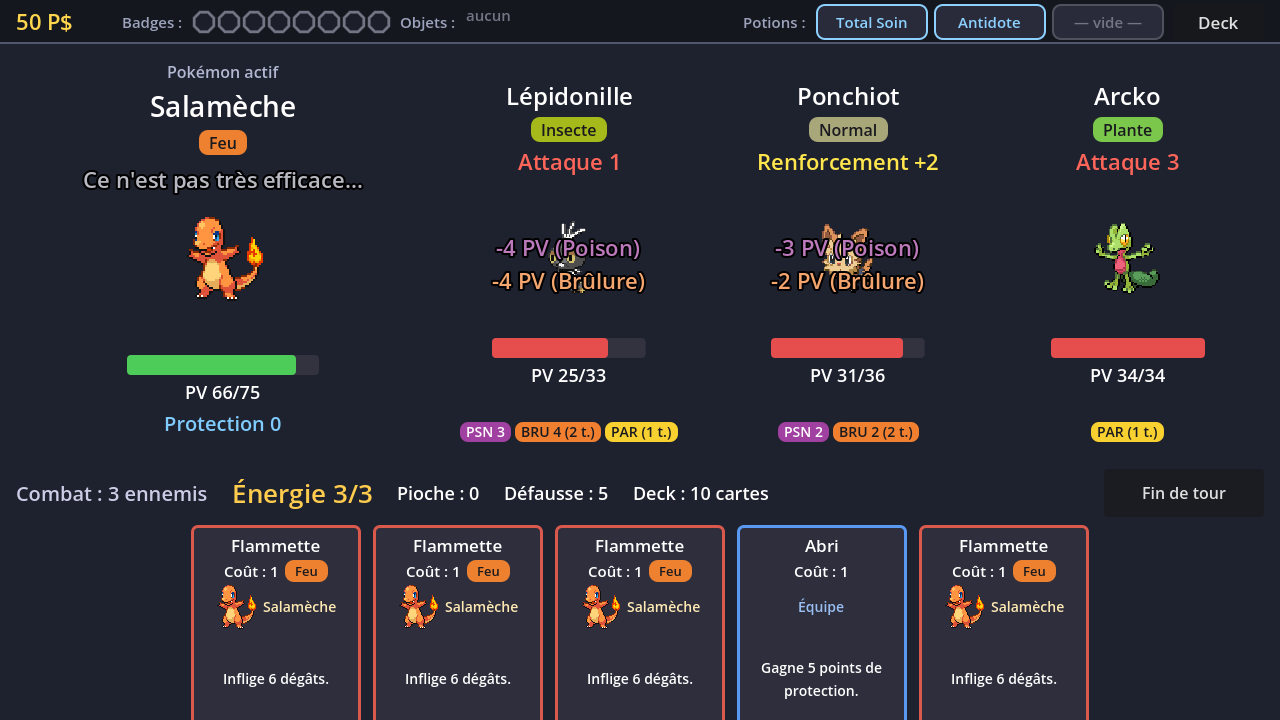
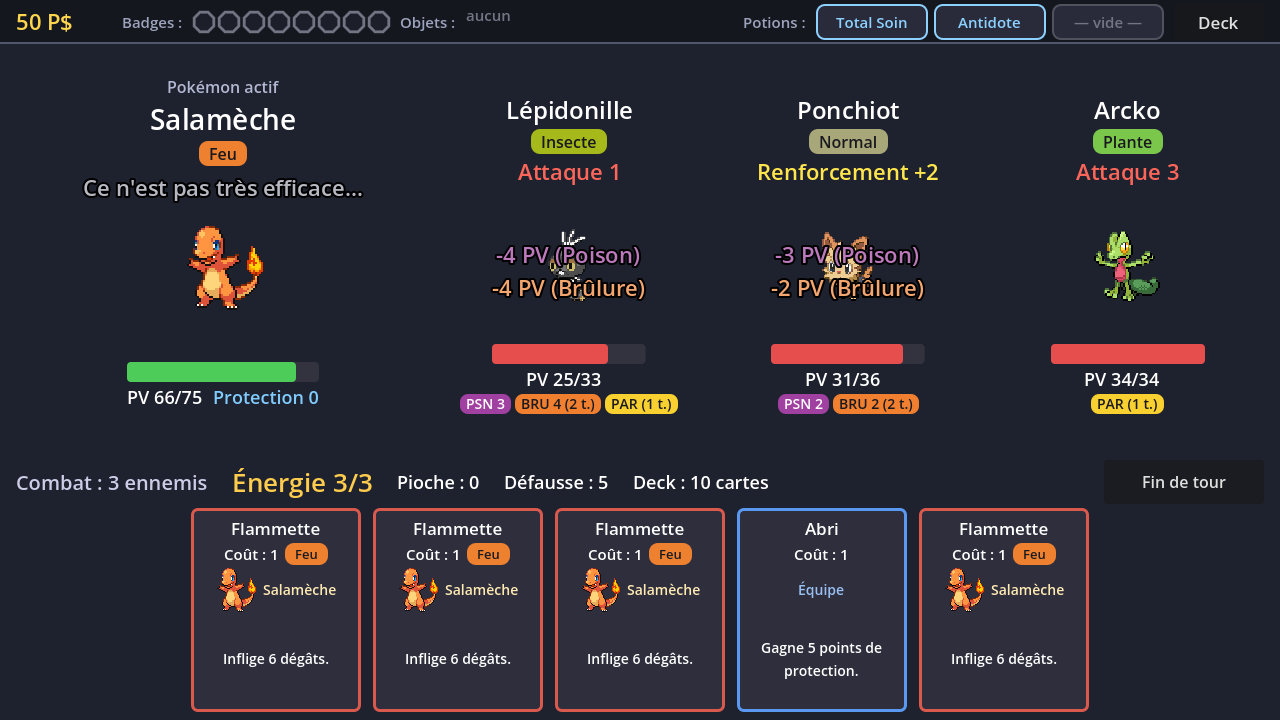
wip: story 016 fixes in progress
Story: pokemon-spire 016

Claude-Session: https://claude.ai/code/session_01PhvxWc1QeuWwyXRJo7GgvA

diff --git a/production/qa/evidence/story-016-statuts/README.md b/production/qa/evidence/story-016-statuts/README.md
@@ -1,6 +1,6 @@
 # Story 016 — Statuts : preuves visuelles (UI)
 
-Captured 2026-10-24, Godot 4.6.3-stable (linux, Xvfb 1280x720x24), run seed 2026, starter Salamèche.
+Captured 2026-10-24 (re-captured the same day after the player-reported fixes: fit-in-720p layout and the anti-lock status rules), Godot 4.6.3-stable (linux, Xvfb 1280x720x24), run seed 2026, starter Salamèche.
 
 ## How captured
 
@@ -12,20 +12,24 @@ xvfb-run -a -s "-screen 0 1280x720x24" /root/godot/Godot_v4.6.3-stable_linux.x86
 `_status_shots()` in `tools/qa/battle_walkthrough.gd` uses these QA hooks: `start_encounter`,
 `BattleScreen.qa_force_hand`, `BattleScreen.qa_apply_status(target_index, id, value)` (new; it goes through
 `Battle.apply_status`, so immunities and feedback are the real ones) and `qa_give_potion`. Each shot prints a `016 <tag>:` line
-to stdout with the chips, HP, energy, info-row hint and intents. Every PNG was opened and checked.
+to stdout with the chips, HP, energy, info-row hint and intents. Every `shot` line of a battle also prints
+`cards=N card_h=H hand_bottom=Y/720 fits=true|false` (global rects of the hand buttons). Every battle shot below reports
+`card_h=204 hand_bottom=712/720 fits=true`: the full card, bottom border included, is inside the frame. Every PNG was opened and checked.
 
 ## Shot → observed
 
 | Shot | Observed |
 |---|---|
 | `07-carte-statut` | 3-enemy fight (Lépidonille / Ponchiot / Arcko). The forced hand holds the status cards Toxik, Feu Follet, Cage-Éclair and Hypnose (skills), plus Dard-Venin (attack, "Poison 3."). Each card description names its status. |
-| `01-statuts-ennemis` | After Toxik + Feu Follet + Cage-Éclair on Lépidonille, plus QA statuses on the other two enemies. Chips under the HP: `PSN 4` `BRU 4 (3 t.)` `PAR (2 t.)` / `PSN 3` `BRU 2 (3 t.)` / `PAR (2 t.)`. The 3 chips fit the 3-enemy slot width. Floating feedback: one coloured line per message ("Poison +4", "Brûlure +4", "Paralysie !"). Nothing overlaps the HP bars or intents. |
+| `01-statuts-ennemis` | (Before the fix the Hypnose / Dard-Venin cards were cut at the bottom edge; now fully visible, bottom border at y≈710.) After Toxik + Feu Follet + Cage-Éclair on Lépidonille, plus QA statuses on the other two enemies. Chips under the HP: `PSN 4` `BRU 4 (3 t.)` `PAR (2 t.)` / `PSN 3` `BRU 2 (3 t.)` / `PAR (2 t.)`. The 3 chips fit the 3-enemy slot width. Floating feedback: one coloured line per message ("Poison +4", "Brûlure +4", "Paralysie !"). Nothing overlaps the HP bars or intents. |
 | `02-tick-poison` | After "Fin de tour": "-4 PV (Poison)" / "-4 PV (Brûlure)" and "-3 PV (Poison)" / "-2 PV (Brûlure)" float over the enemies. HP drops from 33→25 and 36→31. The chips update: `PSN 3`, `BRU 4 (2 t.)`, `PAR (1 t.)`. |
 | `03-immunite` | Héricendre (Feu): Toxik gives "Poison +4" and a `PSN 4` chip. Feu Follet gives "Immunisé !" and no burn chip. Its intent "Attaque 3 + Brûlure 2" fits. |
 | `04-statut-joueur` | Aspicot's "Attaque + Poison 2" hit the team. "Poison +2" floats on the player's side (under "Ce n'est pas très efficace…") and a `PSN 2` chip sits under "Protection" on the player's panel. |
-| `04b-joueur-endormi` | The team is asleep (QA sleep) and ends its turn: "-2 PV (Poison)" / "Dort…" / "Réveillé !" on the player. Info row: "Ton équipe dort : 0 énergie ce tour" (lilac), Énergie 0/3, cards greyed out. |
-| `06-soin-statut` | Total Soin drunk from the HUD: "Potion : Total Soin" floats and the player's `PSN` chip is gone. The belt has one slot fewer. |
+| `04b-joueur-endormi` | The team is asleep (QA sleep) and ends its turn: "-2 PV (Poison)" / "Dort…" / "Réveillé !" on the player. Info row: "Ton équipe dort : −2 énergie ce tour" (lilac), Énergie 1/3: the team still draws and can play with what is left. The sleep ended, so a `RÉPIT (2 t.)` chip (green) appears next to `PSN 1`. |
+| `06-soin-statut` | Total Soin drunk from the HUD: "Potion : Total Soin" floats and the player's `PSN` chip is gone; `RÉPIT (2 t.)` stays (the aftermath immunity is not a status). The belt has one slot fewer. |
+| `08-repit` | Same fight, QA freeze applied to the team during the immunity: refused, "Immunisé !" floats over Salamèche, `RÉPIT (2 t.)` chip under the HP row. |
 | `05-sommeil-gel` | Roucool sleeping and Nosferapti frozen: intents "Dort" / "Gelé" in the status colour, with `DOR` / `GEL` chips. Aspicot's long intent "Attaque 13 + Poison 2" fits its slot. The panel without a chip stays aligned with the others. |
+| `09-main-7-cartes-statuts` | Worst-case layout: 3 enemies with 3 chips each (`PSN 3` `BRU 2 (3 t.)` `PAR (2 t.)`), the team with `PSN 2` `PAR (2 t.)`, and a 7-card hand (narrowed cards). All 7 cards are fully visible (`hand_bottom=712/720`), nothing overlaps. |
 
 ## Not covered by a shot
 
@@ -36,3 +40,14 @@ to stdout with the chips, HP, energy, info-row hint and intents. Every PNG was o
 - The Antidote / Anti-Brûlure / Antigel potions (same `cure_status` path as Total Soin).
 - The worst-case intent with a burn ("Attaque 13 + Brûlure 4") was not reached in data. The font shrink (22 → 14 px
   minimum) is shown working only on "Attaque 13 + Poison 2", which already fits at 22 px.
+- "Paralysie : sans effet" (paralysis re-applied while active; covered by the scratch test t20).
+
+## Layout fix (fit in 1280x720)
+
+The battle screen sits under the 44 px HUD, so it has 676 px. Before the fix the hand row (card 200 + 10) started at y≈525 and
+ran to ≈735, past the 720 px frame. Changes in `src/ui/battle_screen.gd`: vertical outer margin 16 → 8 px, row gap 8 → 4 px,
+fighter panel gap 4 → 2 px, "PV" and "Protection" on one row (one line saved per fighter), hand row height card + 10 → card + 4,
+"Fin de tour" 48 → 44 px high. Card size (170x200) and sprite sizes are unchanged. Hand cards are now at y 508–712.
+`project.godot`: `window/stretch/mode="canvas_items"` was already set; `window/stretch/aspect="keep"` is now explicit
+(it was absent, which in Godot 4 means `keep`), so the 1280x720 design is letterboxed, never cropped, in a smaller or
+different-aspect window.
